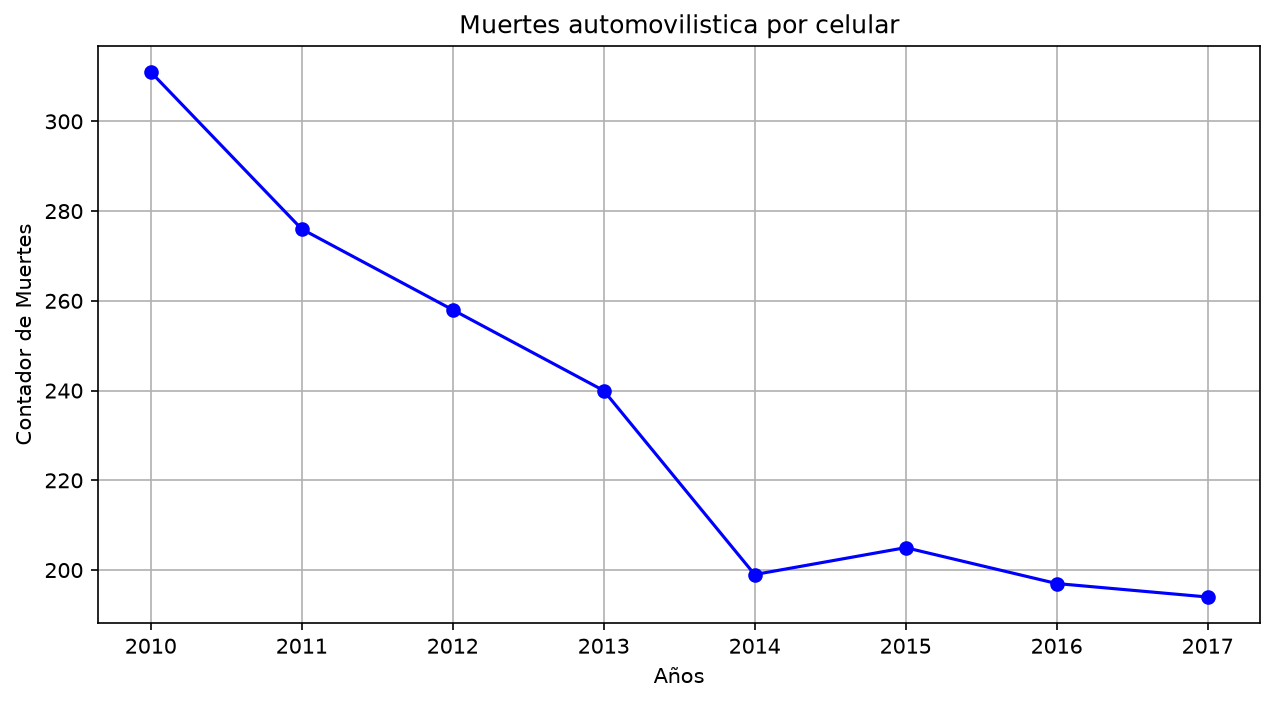
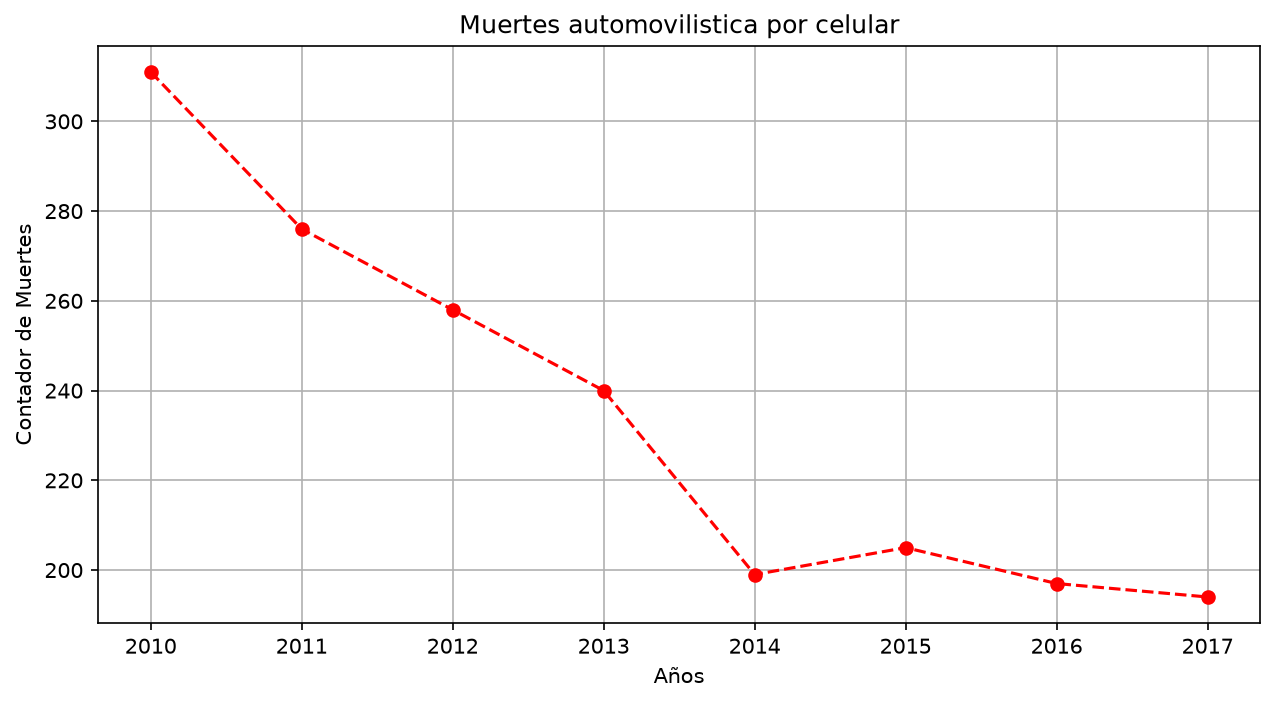
.

diff --git a/Ejercicios/Ejercicio_1-2.py b/Ejercicios/Ejercicio_1-2.py
@@ -1,4 +1,33 @@
-import matplotlib as plt
+import matplotlib.pyplot as plt
+from pathlib import Path
 
-#Ejercicio 1.2
+# Ejercicio 1.2
+# Altura de los árboles
 
+datos_arboles = {
+    'Coast redwood': 116.92,
+    'Sitka spruce': 101.2,
+    'Yellow meranti': 99.53,
+    'Southern blue gum': 91.7,
+    'Manna gum': 89.9,
+    'Brown top\nstringybark': 89.5,
+    'Mengaris': 86.76,
+    'Shorea angoretiifolia': 85.85,
+    'Shining gum': 85.3,
+    'Western hemlock': 84.34
+}
+
+arboles = list(datos_arboles.keys())
+alturas = list(datos_arboles.values())
+
+plt.figure(figsize=(12, 6))
+plt.bar(arboles, alturas, color='lightblue')
+plt.title('Altura de árboles en un ambiente específico')
+plt.xlabel('Especie del árbol')
+plt.ylabel('Altura (m)')
+plt.xticks(rotation=45, ha='right')
+plt.tight_layout()
+
+carpeta_imagenes = Path(__file__).resolve().parents[1] / 'Imagenes'
+plt.savefig(carpeta_imagenes / 'grafica_ejercicio_1_2.png', dpi=150)
+plt.show()

diff --git a/Ejercicios/Ejercicio_1_3.py b/Ejercicios/Ejercicio_1_3.py
@@ -1,3 +1,31 @@
-import matplotlib as plt
+import matplotlib.pyplot as plt
+from pathlib import Path
 
-#Ejercicio 1.3
+# Ejercicio 1.3
+# Distribución de actividades evaluadas
+
+datos_actividades = {
+    'Assignments': 10,
+    'Quizzes': 5,
+    'Graded discussion board': 5,
+    'Practical labs': 5,
+    'Midterm exams': 30,
+    'Final term exams': 40
+}
+
+actividades = list(datos_actividades.keys())
+porcentajes = list(datos_actividades.values())
+
+etiquetas = [
+    f'{actividad}\n{porcentaje}%'
+    for actividad, porcentaje in datos_actividades.items()
+]
+
+plt.figure(figsize=(8, 8))
+plt.pie(porcentajes, labels=etiquetas, startangle=90)
+plt.title('Distribución de las actividades')
+plt.tight_layout()
+
+carpeta_imagenes = Path(__file__).resolve().parents[1] / 'Imagenes'
+plt.savefig(carpeta_imagenes / 'grafica_ejercicio_1_3.png', dpi=150)
+plt.show()

diff --git a/Ejercicios/Ejercicio_1_1.py b/Ejercicios/Ejercicio_1_1.py
@@ -9,11 +9,12 @@ años = [2010, 2011, 2012, 2013, 2014, 2015, 2016, 2017]
 muertes = [311, 276, 258, 240, 199, 205, 197, 194]
 
 plt.figure(figsize=(10, 5))
-plt.plot(años, muertes, marker='o', color='b', 	linestyle='-')
+plt.plot(años, muertes, marker='o', color='red', linestyle='--')
 plt.title('Muertes automovilistica por celular')
 plt.xlabel('Años')
 plt.ylabel('Contador de Muertes')
 plt.grid(True)
+
 carpeta_imagenes = Path(__file__).resolve().parents[1] / 'Imagenes'
 plt.savefig(carpeta_imagenes / 'grafica_ejercicio_1_1.png', dpi=150, bbox_inches='tight')
 plt.show()
